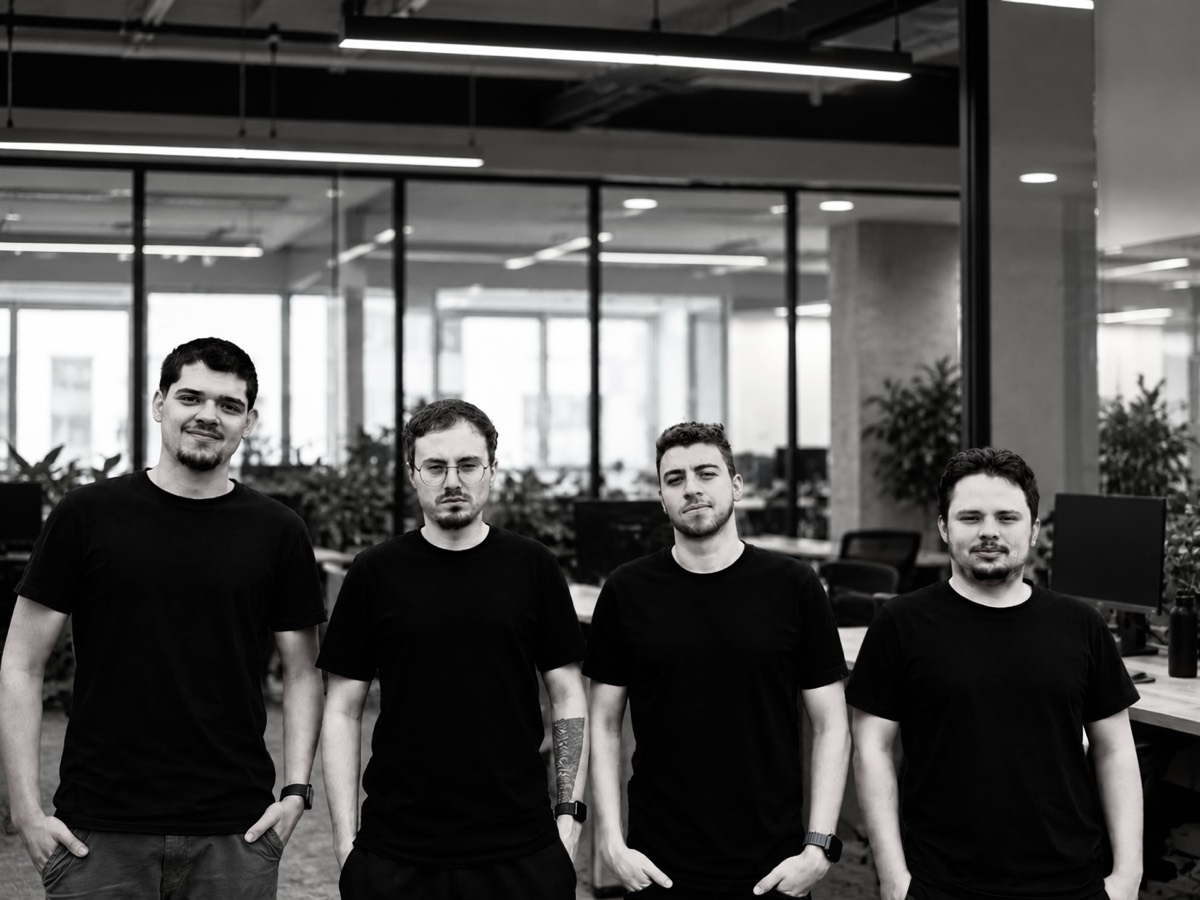
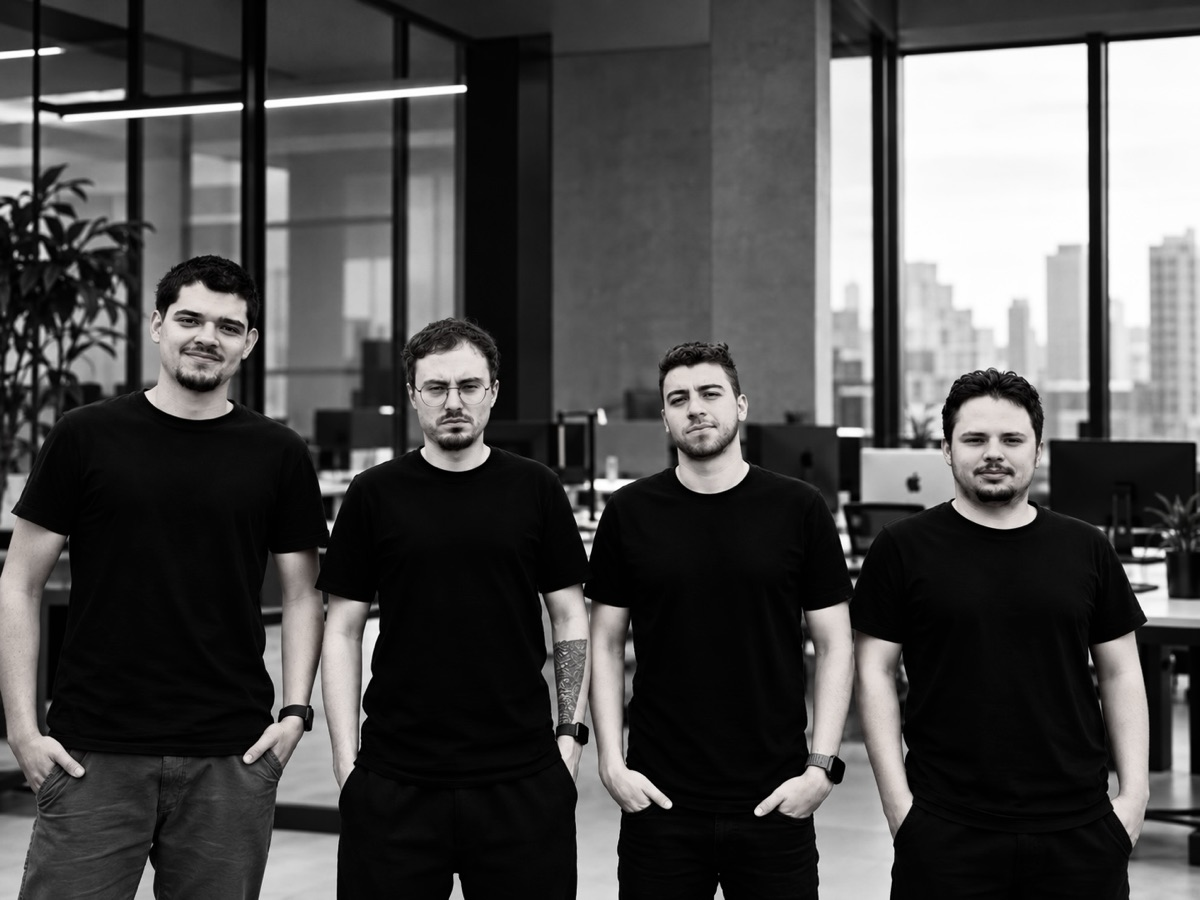
feat: nova foto do time na seção Quem somos
Troca pela foto editada em P&B: os quatro em pé no escritório, com as
estações de trabalho e a janela para a cidade atrás. Mesmo tratamento:
1200x900, comprimida (164KB). Alt atualizado.

diff --git a/components/sections/About.tsx b/components/sections/About.tsx
@@ -36,7 +36,7 @@ export default function About() {
           <img
             className="photo-img"
             src="/time.jpg"
-            alt="O time da Pergamo, quatro pessoas de camiseta preta, no escritório, com as estações de trabalho atrás"
+            alt="O time da Pergamo, quatro pessoas de camiseta preta, em pé no escritório, com as estações de trabalho e a janela para a cidade atrás"
             loading="lazy"
           />
         </div>
